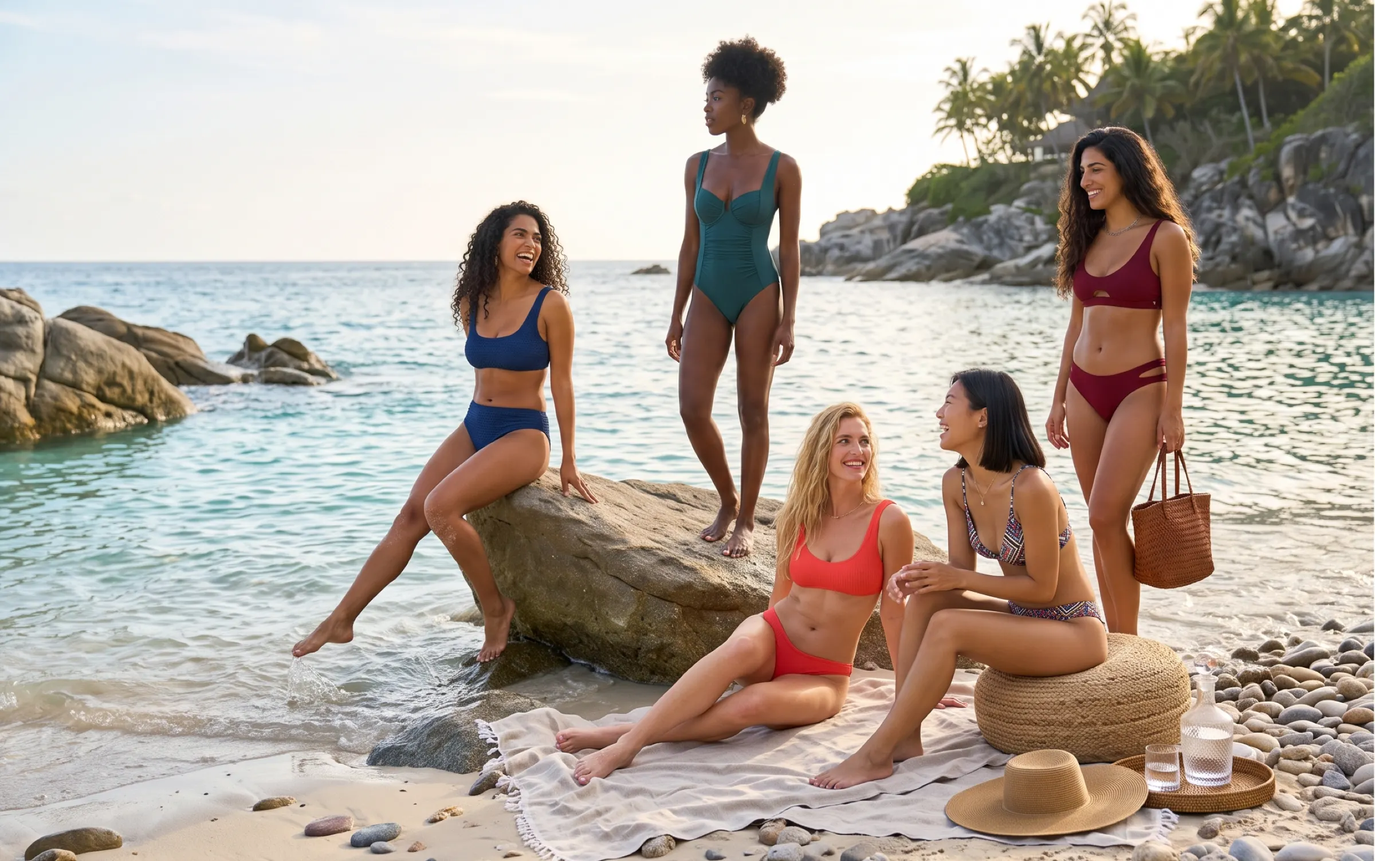
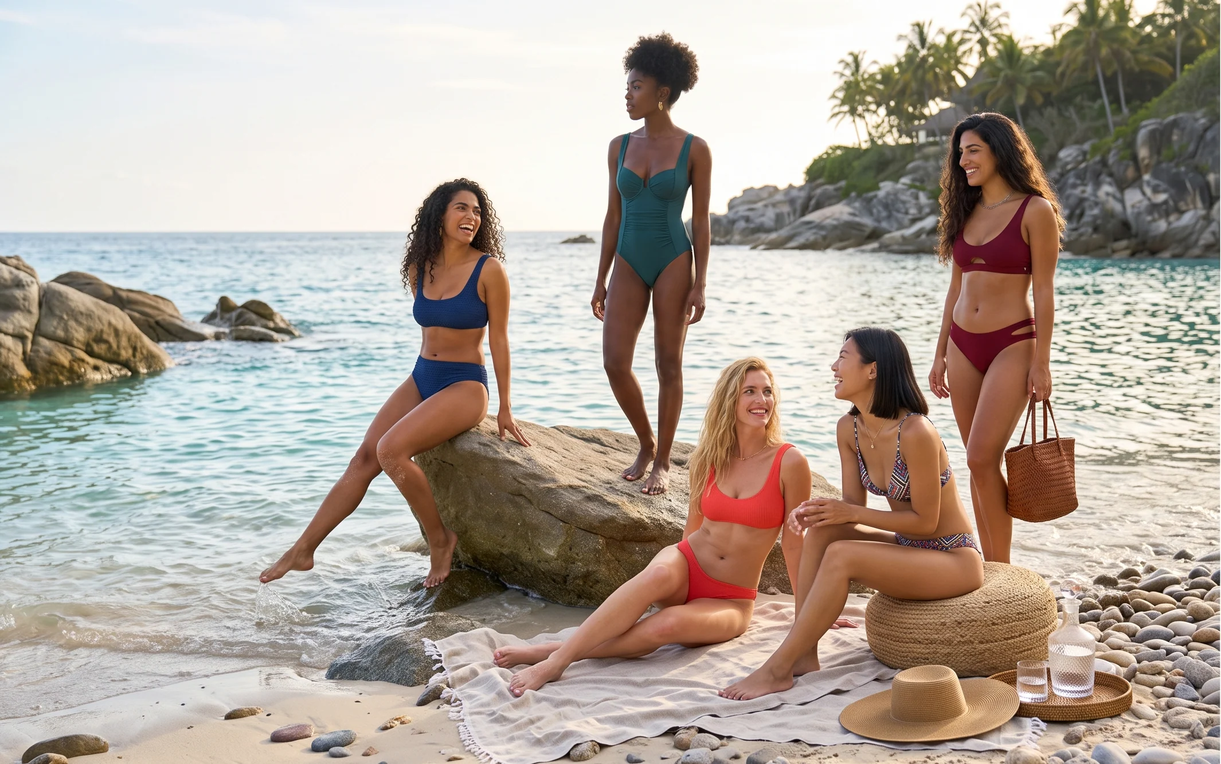
Shop-Hero: scharfe Bilder aus den 3168-px-Quellen, grosse Bildbreiten wieder erlaubt
Die Hero-Bilder wurden seit der Kontingent-Sparmassnahme auf 1200 px
begrenzt und auf Retina-Desktops ~3x hochskaliert. deviceSizes um 1920
und 2560 ergaenzt (3840 bleibt weg); shop-hero-1/3/4 neu aus den
PNG-Quellen in image-source/ erzeugt (3168 px, WebP q86).

Changed region(s): [[0.8366, 0.7684, 0.8676, 0.7991], [0.8056, 0.8913, 0.8366, 0.922], [0.7127, 0.6147, 0.7437, 0.6454]]

diff --git a/next.config.ts b/next.config.ts
@@ -11,10 +11,14 @@ const nextConfig: NextConfig = {
     // - minimumCacheTTL: Dateien aus public/ kommen mit max-age=0, ohne diesen
     //   Wert würde jede Variante alle 4 h neu erzeugt. Bilder ändern sich nur
     //   mit neuem Dateinamen, ein Jahr Cache ist daher sicher.
-    // - deviceSizes: Produktfotos sind 800–1340 px breit; Varianten für 1920,
-    //   2048 und 3840 px wären reine Verschwendung des Kontingents.
+    // - deviceSizes: Produktfotos sind 800–1340 px breit, dafür reichen die
+    //   kleinen Stufen. 1920 und 2560 braucht es aber für die bildschirm-
+    //   breiten Hero-Bilder (Quellen 3168 px) auf Retina-Desktops – ohne sie
+    //   wurde der Shop-Hero auf 1200 px begrenzt und ~3x hochskaliert (unscharf).
+    //   3840 bleibt weg. Für kleine Quellbilder liefert next/image bei grossen
+    //   Breiten ohnehin nur das Original zurück.
     minimumCacheTTL: 31536000,
-    deviceSizes: [640, 750, 828, 1080, 1200],
+    deviceSizes: [640, 750, 828, 1080, 1200, 1920, 2560],
     imageSizes: [64, 96, 128, 256, 384],
   },
 };
